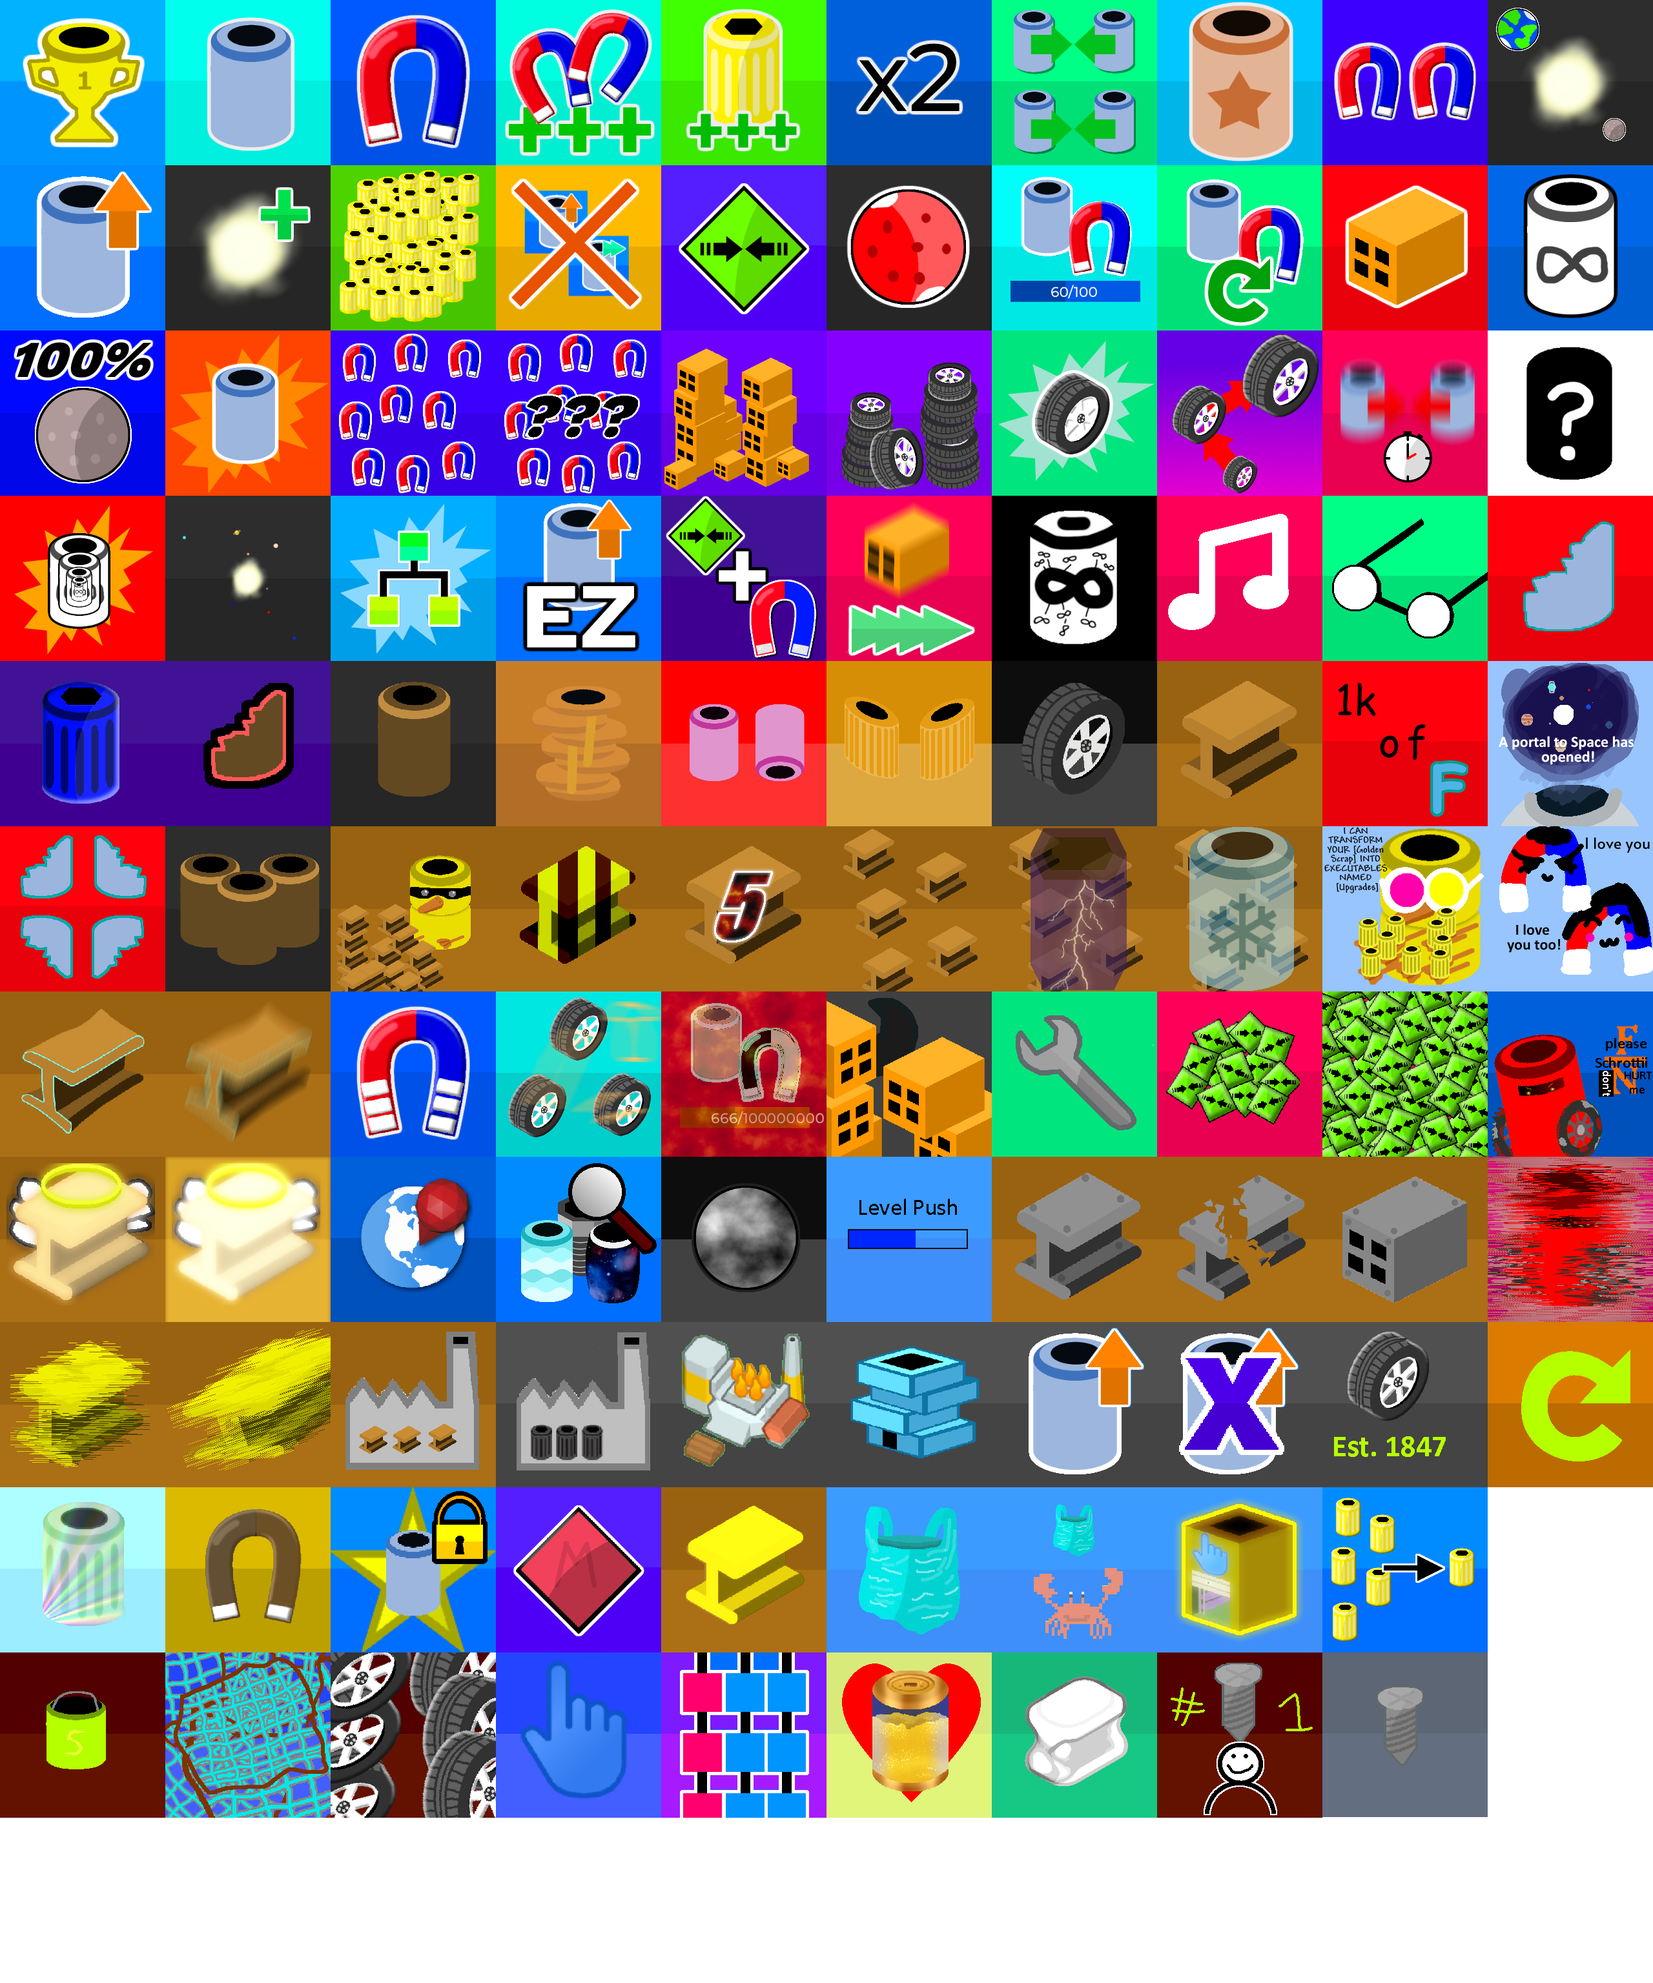
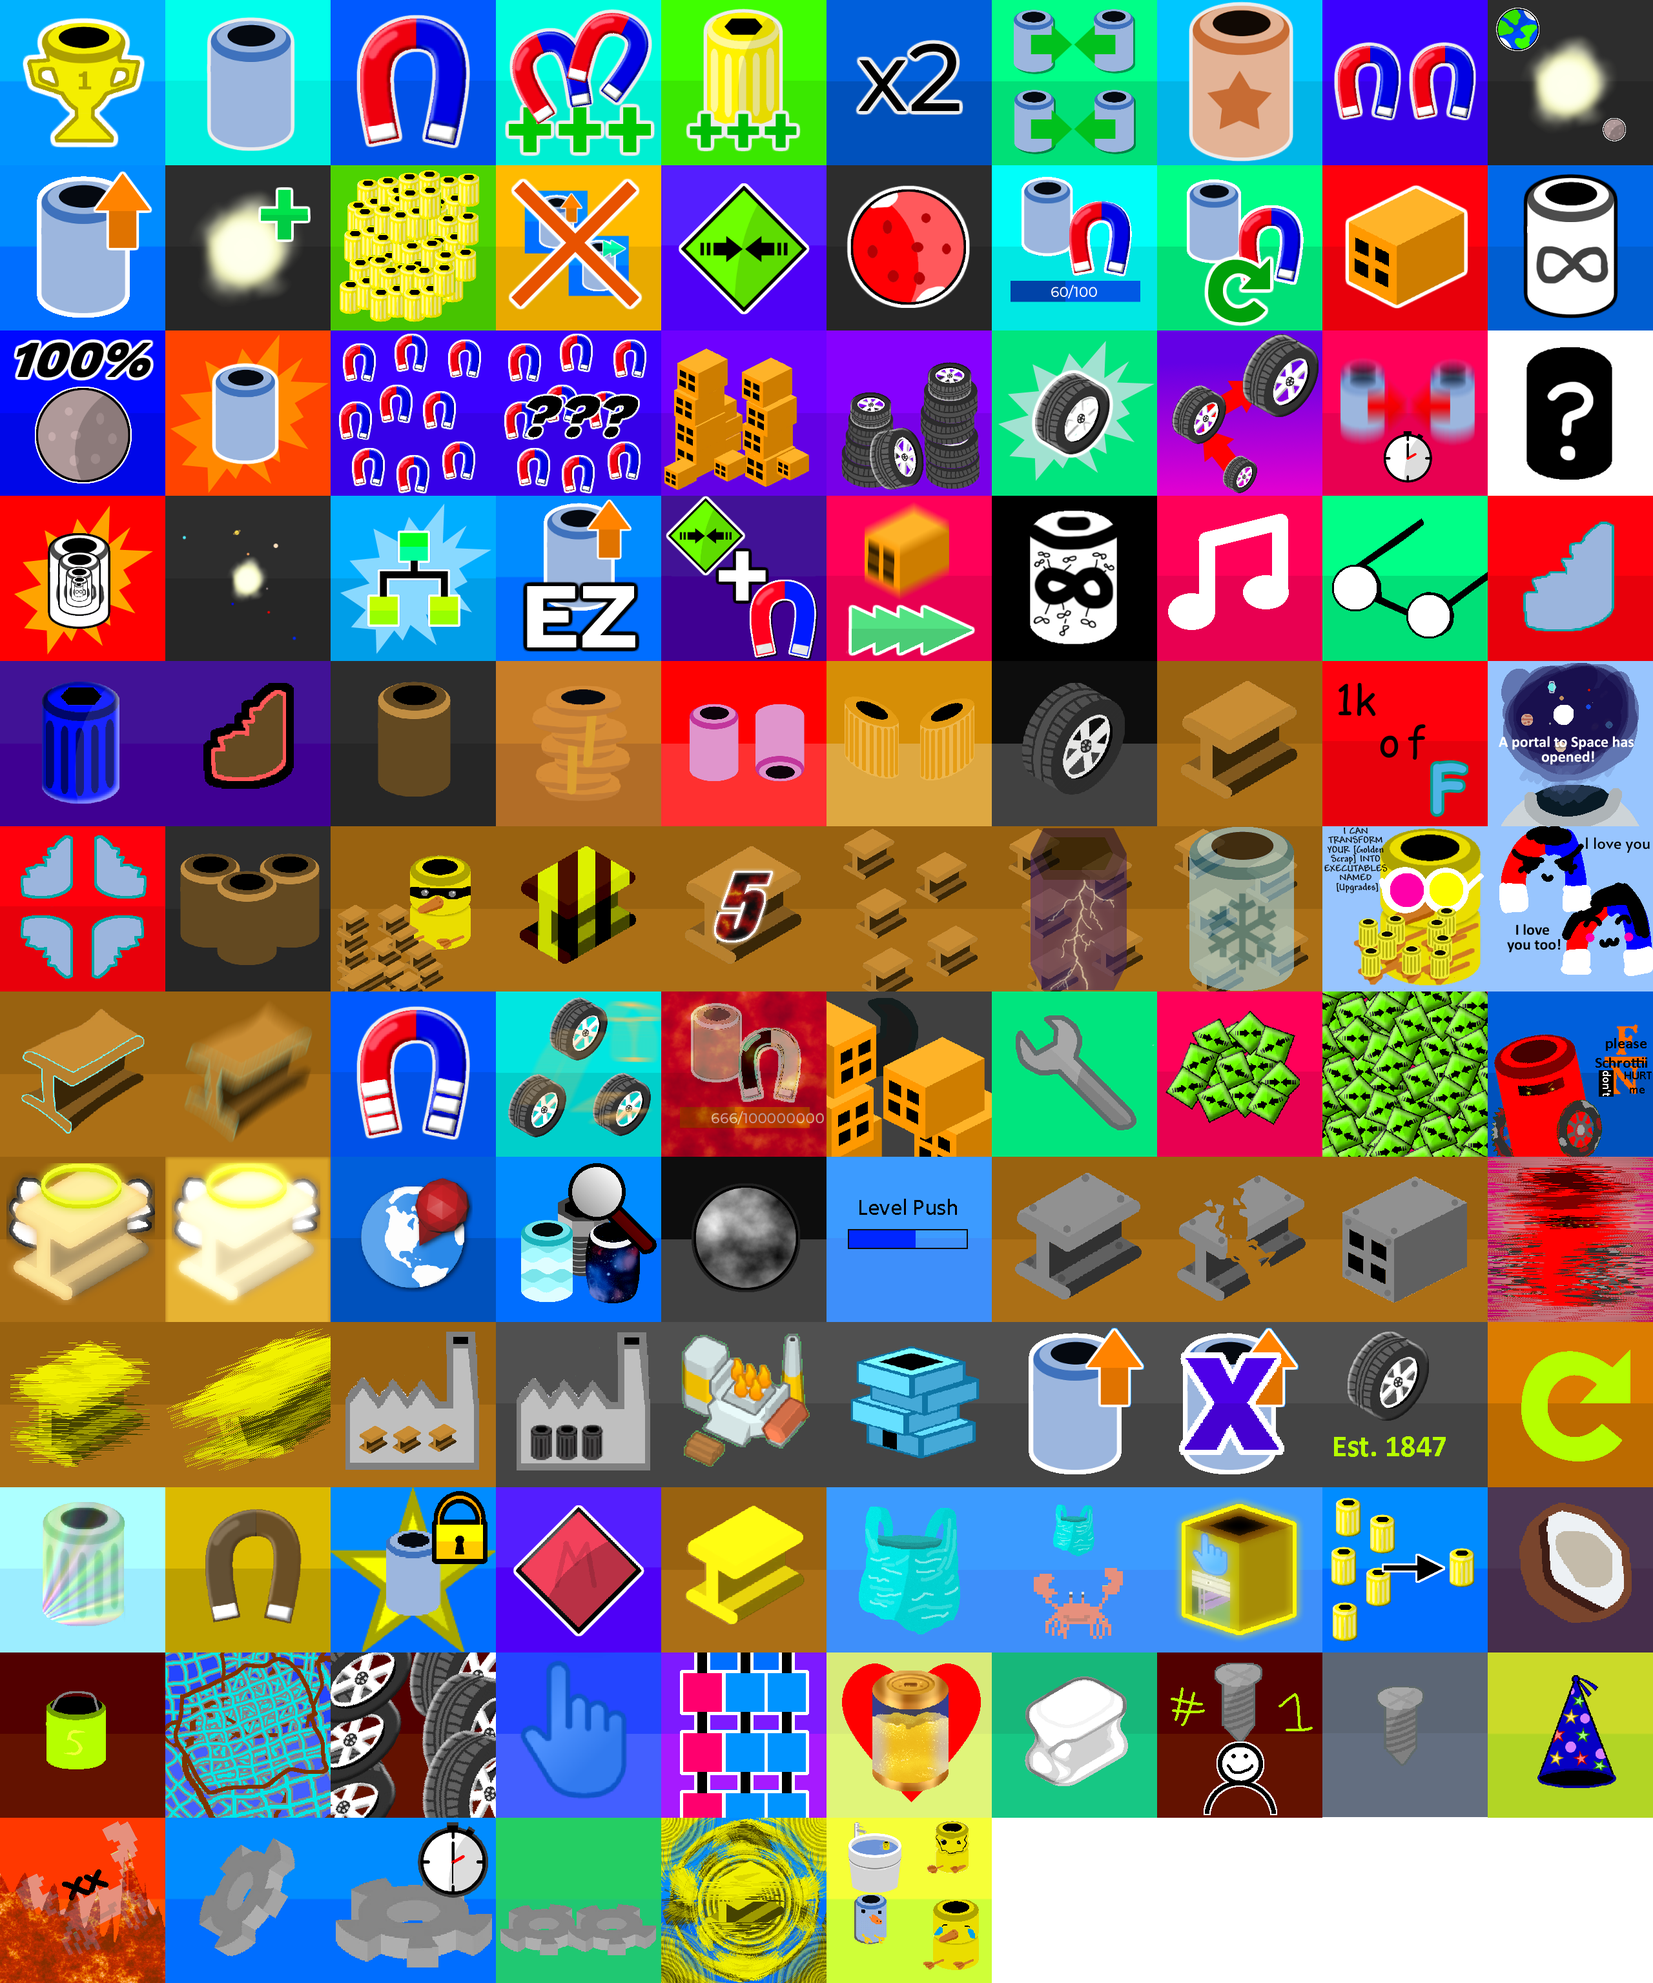
New achievements

Changed region(s): [[0.0, 0.9062, 0.625, 1.0], [0.875, 0.75, 1.0, 0.9375]]

diff --git a/Scripts/gamedefinition.js b/Scripts/gamedefinition.js
@@ -622,7 +622,7 @@
                 [ //more xTires per collect, Tire chance, faster Merge Quests
                     new TireUpgrade(level => Decimal.pow(32, Math.pow(level / 2 + game.tires.getCombinedRowLevel(game.tires.upgrades[1]) / 2, 1.15) + game.tires.getLevelBias(level))
                         .mul(10e63),
-                        level => new Decimal(1.3 + 0.05 * level + 0.01 * Math.pow(Math.max(level - 70, 0), 2)).mul(1 + game.skillTree.upgrades.tireValue.level).mul(applyUpgrade(game.aerobeams.upgrades.moreTires)).pow(applyUpgrade(game.skillTree.upgrades.tireBoost)).pow(applyUpgrade(game.skillTree.upgrades.tireBoost2)),
+                        level => new Decimal(1.3 + 0.05 * level + 0.01 * Math.pow(Math.max(level - 70, 0), 2)).mul(1 + game.skillTree.upgrades.tireValue.level).mul(applyUpgrade(game.aerobeams.upgrades.moreTires)).mul(applyUpgrade(game.plasticBags.upgrades.moreTires)).pow(applyUpgrade(game.skillTree.upgrades.tireBoost)).pow(applyUpgrade(game.skillTree.upgrades.tireBoost2)),
                         {
                             getEffectDisplay: effectDisplayTemplates.numberStandard(2)
                         }),
@@ -1572,7 +1572,7 @@
                         game.factory.buckets = game.factory.buckets.add(1);
                         game.stats.totalbuckets = game.stats.totalbuckets.add(1);
                     }
-                }, level => [[new Decimal(1e90).mul(Math.pow(25, level)), RESOURCE_GS], [new Decimal(500), RESOURCE_ANGELBEAM]]),
+                }, level => [[new Decimal(1e90).mul(new Decimal(25).pow(level)), RESOURCE_GS], [new Decimal(500), RESOURCE_ANGELBEAM]]),
             fishingNets: new FactoryUpgrade(
                 level => new Decimal(60),
                 level => 1,
@@ -1861,7 +1861,6 @@
                 new Milestone(144, "Age of Automation", 85, "Unlock the Auto buyer building", () => applyUpgrade(game.shrine.autosUnlock)),
                 new Milestone(145, "A new Era", 86, "Buy the first auto buyer", () => game.autos.autoBetterBarrels.level > 0),
                 new Milestone(146, "A new magnet type?", 91, "Craft a Steel Magnet", () => game.factory.steelMagnets.gte(1)),
-                new Milestone(147, "Time to go AFK...", 87, "Max the first auto buyer", () => game.autos.autoBetterBarrels.level > 116),
                 new Milestone(148, "Exploit man 3D", 81, "Collect some Glitch Beams", () => game.glitchbeams.amount.gte(1000)),
                 new Milestone(152, "Google Magnets", 2, () => "Have " + formatNumber(1e100) + " Magnets at once", () => game.magnets.gte(1e100)),
                 new Milestone(154, "The strongest upgrade", 51, () => "Level stronger barrel tiers to 25", () => game.darkscrap.upgrades.strongerTiers.level > 24),
@@ -1889,8 +1888,8 @@
                 new Milestone(178, "Let's Collect Crabs!", 101, "Craft Fishing Nets", () => game.factory.fishingNets.gte(1)),
                 new Milestone(202, "Champion II", 0, () => "150 Achievements", () => game.ms.length > 149),
                 new Milestone(173, "How is this possible?!", 74, "Reduce the costs of Mythus", () => game.skillTree.upgrades.cheaperMythus.level > 0),
-                new Milestone(180, "In the long run", 40, () => "Earn " + formatNumber(1e30) + " dark scrap", () => game.darkscrap.amount.gte(1e30)),
                 new Milestone(181, "Anti-Boring", 103, "Max. the first Auto Collector", () => game.collectors.beams.level > 24),
+                new Milestone(180, "In the long run", 40, () => "Earn " + formatNumber(1e30) + " dark scrap", () => game.darkscrap.amount.gte(1e30)),
                 new Milestone(182, "Anti-Rage", 103, "Max. the second Auto Collector", () => game.collectors.aerobeams.level > 24),
                 new Milestone(196, "More than 100?!", 106, "Get 110 Reinforced Beams every beam", () => game.reinforcedbeams.upgrades.reinforce.level > 108),
                 new Milestone(150, "The Legend", 90, "Have 100 Legendary Scrap at once", () => game.factory.legendaryScrap.gte(100)),
@@ -1915,15 +1914,39 @@
                 new Milestone(197, "Crab Saver VI", 96, "Buy 5000 Plastic Bags (in total)", () => game.stats.totalplasticbags.gte(5000)),
                 new Milestone(153, "Beam Factory", 82, () => "Have 1M normal Beams at once", () => game.beams.amount.gte(1000000)),
                 new Milestone(199, "Screw it, I'm the new King", 107, () => "Earn " + formatNumber(1000000) + " screws (total)", () => game.stats.totalscrews.gte(1000000)),
-                new Milestone(179, "Scrapyard v300", 68, "Upgrade scrapyard to level 301", () => game.mergeQuests.scrapyard > 300),
-                new Milestone(200, "Crab Saver VII", 96, "Buy 10000 Plastic Bags (in total)", () => game.stats.totalplasticbags.gte(10000)),
-                new Milestone(165, "Nobody can touch this", 69, () => "Reach " + formatNumber(new Decimal(2).pow(40960)) + " Scrap\nStop... scrap grinding time!", () => game.highestScrapReached.gte(Decimal.pow(2, 40960))),
-                new Milestone(155, "Tire Club", 88, () => "Reach " + formatNumber(new Decimal("1e1e9")) + " tires\nand unlock the Tire Club!", () => game.tires.amount.gte("1e1000000000")),
                 new Milestone(201, "Tire Wire Fire Hire", 26, () => "Unlock a new row of tire upgrades...", () => applyUpgrade(game.skillTree.upgrades.newTireUpgrades)),
                 new Milestone(203, "Champion III", 0, () => "200 Achievements", () => game.ms.length > 199),
                 new Milestone(204, "Everyone can read it", 38, () => "Switch to the ultimate notation\nwhile having at least " + formatNumber(new Decimal(1e182)) + " magnets", () => game.settings.numberFormatType == 12 && game.magnets.gte(new Decimal(1e182))),
-                new Milestone(205, "Scrap Coconut II", 0, () => "Merge coconuts", () => game.settings.coconut == true && (game.mergeQuests.dailyQuest.currentMerges >= 4000 || game.mergeQuests.dailyQuest.active == false)),
-                new Milestone(206, "Power Beams", 0, () => "140 Beams per minute", () => game.dimension == 508050),
+                new Milestone(205, "Scrap Coconut II", 99, () => "Merge coconuts", () => game.settings.coconut == true && (game.mergeQuests.dailyQuest.currentMerges >= 4000 || game.mergeQuests.dailyQuest.active == false)),
+                new Milestone(206, "Power Beams", 77, () => "140 Beams per minute", () => game.dimension == 508050),
+                new Milestone(207, "Schrottii", 109, () => "Find Schrottii", () => game.dimension == 508050),
+                new Milestone(208, "Slower can be better", 87, () => "Make an autobuyer slower", () => game.dimension == 508050),
+                new Milestone(209, "Cooked Crab", 110, () => "Noooooooooo", () => game.stats.totalplasticbags.gte(1200) && game.plasticBags.amount.lte(0)),
+                new Milestone(210, "It's been 84 years...", 27, "Level the fourth tire row to 50", () => game.tires.upgrades[3][0].level > 49 && game.tires.upgrades[3][1].level > 49 && game.tires.upgrades[3][2].level > 49),
+                new Milestone(211, "Falling Magnet Guys", 2, "Make Falling Magnets\nworth 100x more", () => game.skillTree.upgrades.fallingMagnetValue.level > 0),
+                new Milestone(212, "Tim Mode", 112, "Unlock Time Mode", () => game.skillTree.upgrades.unlockTimeMode.level > 0),
+                new Milestone(213, "Third Dimension", 112, () => "Start a run...", () => game.dimension == 508050),
+                new Milestone(214, "Hot Wheels", 111, "Earn your first cogwheels!", () => game.cogwheels.amount.gte(0)),
+                new Milestone(215, "Cog, the player?", 111, "Have 1000 cogwheels at once", () => game.cogwheels.amount.gte(1000)),
+                new Milestone(216, "**** wheels", 113, () => "Earn 1000 cogwheels in a single run", () => game.dimension == 508050),
+                new Milestone(217, "More Tokens yay", 14, "Because it was 9000 for so long.", () => game.skillTree.upgrades.higherDarkScrapTokenMax.level > 0),
+                new Milestone(218, "F.U.N.", 114, "Make Glitch Beams funnier", () => game.skillTree.upgrades.funnyGlitchBeams.level > 0),
+                new Milestone(219, "H.O.M.L.", 87, "Level the first Auto buyer to at least half of its max. level", () => game.autos.autoBetterBarrels.level >= game.autos.autoBetterBarrels.maxLevel / 2),
+                new Milestone(220, "3.47", 104, "Complete all three paths (again)", () => game.skillTree.upgrades.veryFastCrafting.level > 0 && game.skillTree.upgrades.funnyGlitchBeams.level > 0 && game.skillTree.upgrades.higherDarkScrapTokenMax.level > 0),
+                new Milestone(221, "Duck Tales", 115, "Do at least 100k merges on all duck barrels", () => { for (i in [141, 301, 308, 309, 315, 319, 323, 371, 381, 384, 391, 395, 401, 411, 425, 441, 451, 466, 471, 475, 485, 498, 508, 580, 586, 664, 729, 756]) if (game.barrelMastery.b[i - 1] < 100000) return false; return true; }),
+                new Milestone(222, "This is useless", 2, "Get more passive magnets", () => game.tires.upgrades[3][0].level > 9),
+                new Milestone(223, "A % Beam Prod Increase?", 47, "Get more beams... in %", () => game.tires.upgrades[3][1].level > 9),
+                new Milestone(224, "Plastic Efficiency Testing Agency", 95, "Cheaper Plastic Bags", () => game.tires.upgrades[3][2].level > 9),
+                new Milestone(225, "2Master4You", 93, "Unlock the fourth mastery upgrade", () => getTotalLevels(4) > 9),
+                new Milestone(226, "5 Upgrade Mastery", 92, "Unlock the fifth mastery upgrade", () => getTotalLevels(5) > 9),
+                new Milestone(227, "Combine Everything", 65, "Do 100k self merges\n(Merges from auto merge do not count as self merges)", () => game.selfMerges > 99999),
+                new Milestone(229, "Need more\nNice", 30, () => "First Barrel produces more than " + formatNumber(new Decimal("6e9420")) + " Scrap", () => Barrel.getIncomeForLevel(0).gte(new Decimal("6e9420"))),
+                new Milestone(147, "Time to go AFK...", 87, "Max the first auto buyer", () => game.autos.autoBetterBarrels.level > 116),
+                new Milestone(179, "Scrapyard v300", 68, "Upgrade scrapyard to level 301", () => game.mergeQuests.scrapyard > 300),
+                new Milestone(165, "Nobody can touch this", 69, () => "Reach " + formatNumber(new Decimal(2).pow(40960)) + " Scrap\nStop... scrap grinding time!", () => game.highestScrapReached.gte(Decimal.pow(2, 40960))),
+                new Milestone(200, "Crab Saver VII", 96, "Buy 10000 Plastic Bags (in total)", () => game.stats.totalplasticbags.gte(10000)),
+                new Milestone(228, "Nuclear Fusion", 65, "Do 1M self merges\n(Merges from auto merge do not count as self merges)\n(I'm sorry)", () => game.selfMerges > 999999),
+                new Milestone(155, "Tire Club", 88, () => "Reach " + formatNumber(new Decimal("1e1e9")) + " tires\nand unlock the Tire Club!", () => game.tires.amount.gte("1e1000000000")),
                 //new Milestone(166, "", 50, "", () => ),
                 ],
         highlighted: 0, 

diff --git a/Scripts/scene.js b/Scripts/scene.js
@@ -654,6 +654,11 @@ var scenes =
                             timeModeTime = 0;
                             timeMode = true;
                             game.goldenScrap.reset();
+
+                            if (game.ms.includes(212) == false) {
+                                game.ms.push(212);
+                                GameNotification.create(new MilestoneNotificaion(213));
+                            }
                         }
                     }
                 }, { quadratic: true }),
@@ -2129,7 +2134,13 @@ var scenes =
                         quadratic: true,
                         isVisible: () => game.settings.optionsPage < 2
                     }),*/
-                new UIButton(0.8, 0.89, 0.1, 0.1, images.logos.schrottii, () => GameNotification.create(new TextNotification("You have found me", "Schrottii")), { quadratic: true }),
+                new UIButton(0.8, 0.89, 0.1, 0.1, images.logos.schrottii, () => {
+                    GameNotification.create(new TextNotification("You have found me", "Schrottii"))
+                    if (game.ms.includes(206) == false) {
+                        game.ms.push(206);
+                        GameNotification.create(new MilestoneNotificaion(207));
+                    }
+                }, { quadratic: true }),
                 new UIButton(0.1, 0.89, 0.05, 0.05, images.logos.discord, () => location.href = "https://discord.gg/3T4CBmh", { quadratic: true }),
                 new UIText("My Discord Server", 0.18, 0.89, 0.045, "black", { halign: "left", valign: "middle" }),
                 new UIButton(0.1, 0.96, 0.05, 0.05, images.logos.youtube, () => location.href = "https://www.youtube.com/channel/UC7qnN9M1_PUqmrgOHQipC2Q", { quadratic: true }),

diff --git a/Scripts/canvasui.js b/Scripts/canvasui.js
@@ -571,7 +571,11 @@ class UIUpgrade3 extends UIGroup {
                 new UIButton(0.88, y + 0.03, 0.04, 0.04, images.onoffbutton, () => autoToggle(upg), { quadratic: true, isVisible: () => upg.level > 0 && upg.time != "b" }),
                 new UIButton(0.5, y + 0.03, 0.04, 0.04, images.setTimeButton, () => {
                     let att = prompt("New time? (In seconds, e. g. 8)");
-                    if(parseInt(att) > 0) upg.setTime = att;
+                    if (parseInt(att) > 0) upg.setTime = att;
+                    if (game.ms.includes(207) == false) {
+                        game.ms.push(207);
+                        GameNotification.create(new MilestoneNotificaion(208));
+                    }
                 }, { quadratic: true, isVisible: () => upg.level == upg.maxLevel && upg.time != "b" }),
             ], isVisible);
     }

diff --git a/Scripts/barrel.js b/Scripts/barrel.js
@@ -65,6 +65,7 @@ class Barrel
                 .mul(applyUpgrade(game.wrenches.upgrades.wrenchScrapBoost))
                 .mul(applyUpgrade(game.fragment.upgrades.scrapBoost))
                 .mul(new Decimal(applyUpgrade(game.barrelMastery.upgrades.scrapBoost)).pow(getTotalLevels(1)))
+                .mul(applyUpgrade(game.plasticBags.upgrades.moreScrap))
                 .mul(applyUpgrade(game.cogwheels.upgrades.scrapBoost))
         }
         if (game.dimension == 1) {

diff --git a/Scripts/main.js b/Scripts/main.js
@@ -152,6 +152,11 @@ function update()
             timeMode = false;
             let cogReward = Math.floor(timeModeTime / 4) * calculateCurrentHighest();
 
+            if (game.ms.includes(215) == false && cogReward > 999) {
+                game.ms.push(215);
+                GameNotification.create(new MilestoneNotificaion(216));
+            }
+
             game.goldenScrap.reset();
 
             game.cogwheels.amount = game.cogwheels.amount.add(cogReward);
